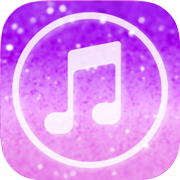
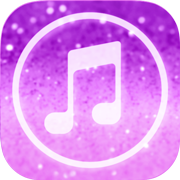
v0.3.3 / Try to Reduce File Size

diff --git a/CHANGELOG.md b/CHANGELOG.md
@@ -1,6 +1,13 @@
 yumeTwinkle 更新履歴
 =======================================================================
 
+## v0.3.3 (2017-02-26)
+
+Changed:
+
+* 一部のアイコンを作り直し、ファイルサイズの削減を試みました（100 KB 削減）。
+
+
 ## v0.3.2 (2017-02-26)
 
 Features:
